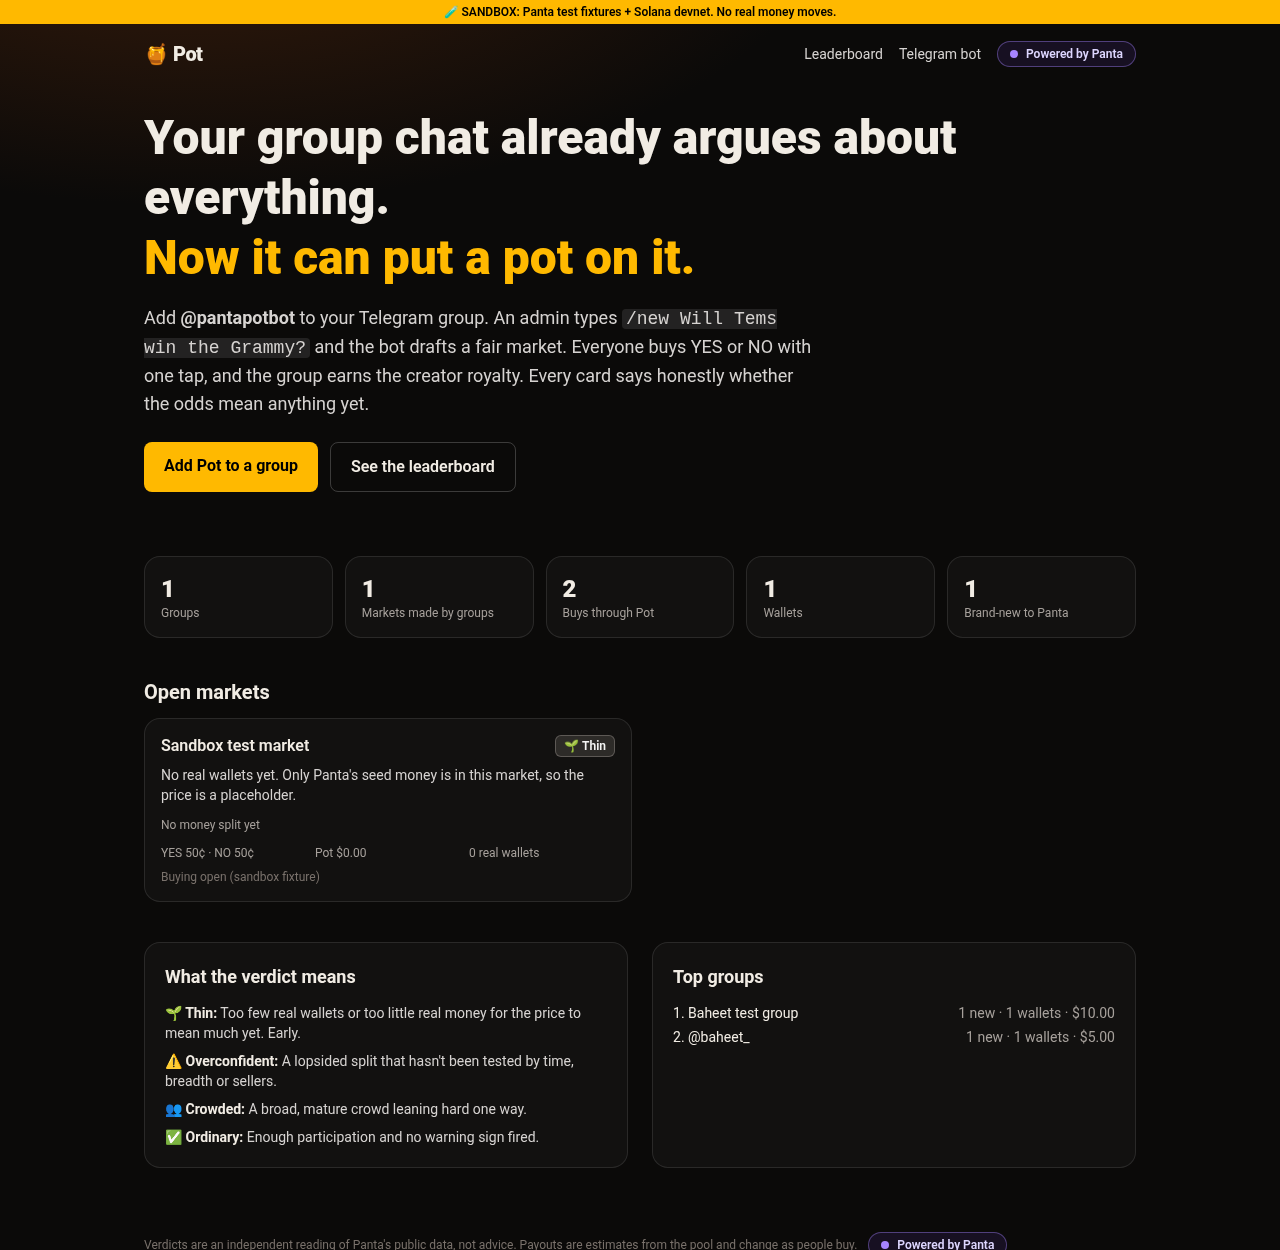
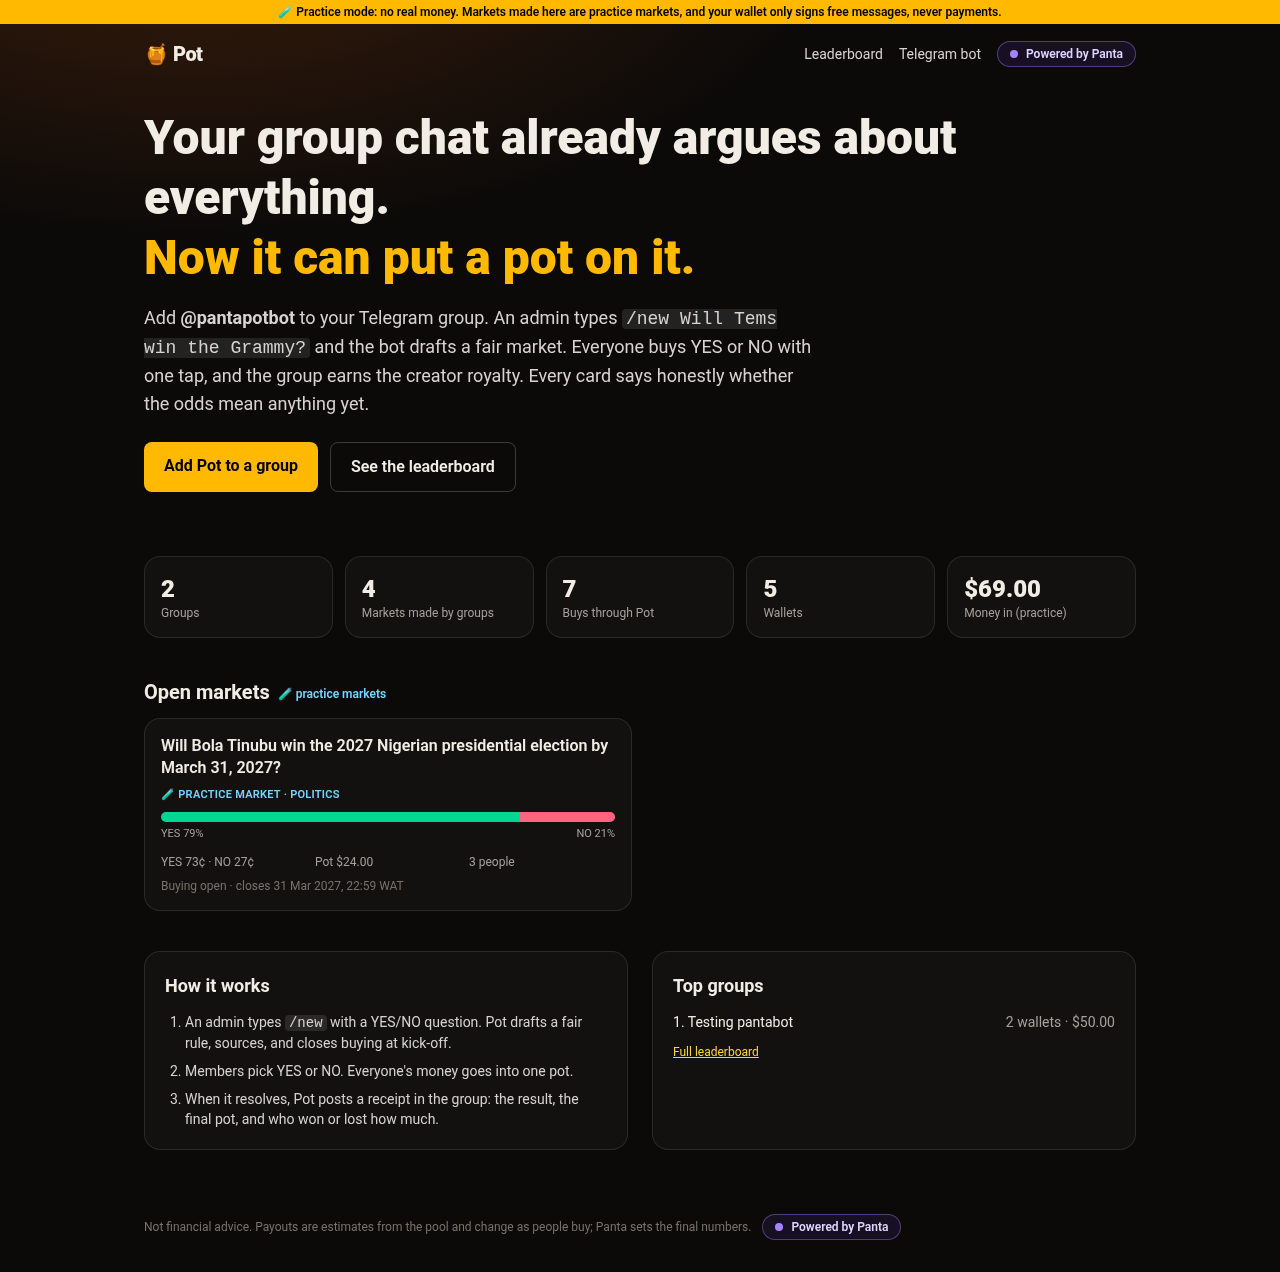
Landing copy: drop the old verdict line

diff --git a/shots/telegram.html b/shots/telegram.html
@@ -5,6 +5,6 @@
     a{color:#6ab3f3}code{background:#0006;padding:0 3px;border-radius:3px}.kb .row{display:flex;gap:4px;margin-top:4px}
     .kb span{flex:1;text-align:center;background:#2b5278aa;border-radius:8px;padding:7px 4px;font-size:14px}</style>
     <div class="h">Naija Ballers · group</div><div class="me">/new Will Super Eagles beat Ghana on Saturday 8pm?</div>
-    <div class="h">Pot (@pantapotbot)</div><div class="b">📝 <b>Market draft</b><br><b>Question:</b> Will Super Eagles beat Ghana on Sat, 3 Oct 2026?<br><b>Rule:</b> Resolves YES if Super Eagles win the match against Ghana that kicks off at Sat, 3 Oct 2026, 20:00 WAT, based on the score at the end of regular time plus stoppage time. Extra time and penalty shootouts do not count. Resolves NO if Super Eagles draw or lose, or if the match is abandoned, postponed or not completed by the market end time. The official result on the listed sources decides; if they disagree, the first listed source wins.<br><b>Sources:</b> https://thenff.com, https://www.espn.com/soccer/, https://www.bbc.com/sport/football<br><b>Buying closes:</b> Sat, 3 Oct 2026, 20:00 WAT<br><b>Event ends:</b> Sat, 3 Oct 2026, 22:30 WAT<br><b>Type:</b> breaking · fee $20 · category sports · region Nigeria<br><b>You earn:</b> up to 20% of the pot as creator royalty (less if 90%+ of traders pick one side).<br><br><i>Not right? Send /new again with the fix, e.g. <code>/new Nigeria beat Benin | Fri 17:00</code></i><br><br>🧪 <i>Sandbox mode: test data, no real money moves.</i></div><div class="kb"><div class="row"><span>✅ Create ($20)</span><span>❌ Cancel</span></div></div>
-    <div class="h">Pot (@pantapotbot) · /markets</div><div class="b">🧪 <i>Sandbox test market (no real money)</i><br><b>Sandbox test market</b><br>🌱 <b>Thin</b>: No real wallets yet. Only Panta's seed money is in this market, so the price is a placeholder.<br>YES — ░░░░░░░░░░ — NO <i>(money split)</i><br>Price: YES 50¢ · NO 50¢<br>🏦 Pot $0.00 · 👤 0 real wallets · ⏳ buying open (sandbox)<br><i>Powered by Panta</i></div><div class="kb"><div class="row"><span>🟩 Buy YES</span><span>🟥 Buy NO</span></div><div class="row"><span>📊 Details</span><span>𝕏 Share as Blink</span></div></div>
+    <div class="h">Pot (@pantapotbot)</div><div class="b">📝 <b>Market draft</b> · 🤖 <i>written by AI, please check it</i><br><b>Question:</b> Will Super Eagles beat Ghana on Sat, 10 Oct 2026?<br><b>Rule:</b> Resolves YES if Super Eagles win the match against Ghana that kicks off at Sat, 10 Oct 2026, 20:00 WAT, based on the score at the end of regular time plus stoppage time. Extra time and penalty shootouts do not count. Resolves NO if Super Eagles draw or lose, or if the match is abandoned, postponed or not completed by the market end time. The official result on the listed sources decides; if they disagree, the first listed source wins.<br><b>Sources:</b> https://thenff.com, https://www.espn.com/soccer/, https://www.bbc.com/sport/football<br><b>Kick-off / start:</b> Sat, 10 Oct 2026, 20:00 WAT<br><b>Buying closes:</b> Sat, 10 Oct 2026, 20:00 WAT (at kick-off)<br><b>Event ends:</b> Sat, 10 Oct 2026, 22:30 WAT<br><b>Result by:</b> Sat, 10 Oct 2026, 23:30 WAT<br><b>Type:</b> breaking · fee $20 · category sports · region Nigeria<br><b>You earn:</b> up to 20% of the pot as creator royalty (less if 90%+ of traders pick one side).<br><br><i>Want changes? Reply to this message with what to change (e.g. "make the deadline 30 June 2027"), or use <code>/edit ends 31 May 2027 23:00</code>. Fields: question, title, rule, sources, kickoff, closes, ends, resolves, category, region.</i><br><br>🧪 <i>Practice mode: no real money moves.</i></div><div class="kb"><div class="row"><span>✅ Create ($20)</span><span>❌ Cancel</span></div></div>
+    <div class="h">Pot (@pantapotbot) · /markets</div><div class="b">🧪 <i>Sandbox test market (no real money)</i><br><b>Sandbox test market</b><br>🏷 <i>crypto</i><br>No buys yet. Be the first to pick a side.<br>💰 Pot $0.00 · 👤 0 people<br>⏳ Buying open (sandbox)<br><i>Powered by Panta</i></div><div class="kb"><div class="row"><span>🟩 Buy YES</span><span>🟥 Buy NO</span></div><div class="row"><span>📊 Details</span><span>𝕏 Share on X</span></div></div>
     <div class="h">Pot · buy alert</div><div class="b">🟩 BSCD…HxW bought <b>NO</b> $10.00 on <b>Sandbox test market</b> via Ada's link · 🎉 first ever Panta trade for this wallet 🧪</div>

diff --git a/apps/web/src/app/page.tsx b/apps/web/src/app/page.tsx
@@ -13,7 +13,7 @@ export default async function Home() {
     <div className="space-y-10">
       <section className="py-6">
         <h1 className="text-3xl font-black leading-tight sm:text-4xl md:text-5xl">Your group chat already argues about everything.<br /><span className="text-amber-400">Now it can put a pot on it.</span></h1>
-        <p className="mt-4 max-w-2xl text-lg text-stone-300">Add <b>@pantapotbot</b> to your Telegram group. An admin types <code className="rounded bg-white/10 px-1">/new Will Tems win the Grammy?</code> and the bot drafts a fair market. Everyone buys YES or NO with one tap, and the group earns the creator royalty. Every card says honestly whether the odds mean anything yet.</p>
+        <p className="mt-4 max-w-2xl text-lg text-stone-300">Add <b>@pantapotbot</b> to your Telegram group. An admin types <code className="rounded bg-white/10 px-1">/new Will Tems win the Grammy?</code> and the bot drafts a fair market. Everyone buys YES or NO with one tap, and the group earns the creator royalty. When it resolves, Pot posts a receipt: who won or lost how much.</p>
         <div className="mt-6 flex flex-wrap gap-3">
           <a href="https://t.me/pantapotbot?startgroup=true" className="rounded-lg bg-amber-400 px-5 py-3 font-bold text-black">Add Pot to a group</a>
           <Link href="/leaderboard" className="rounded-lg border border-white/20 px-5 py-3 font-semibold">See the leaderboard</Link>
